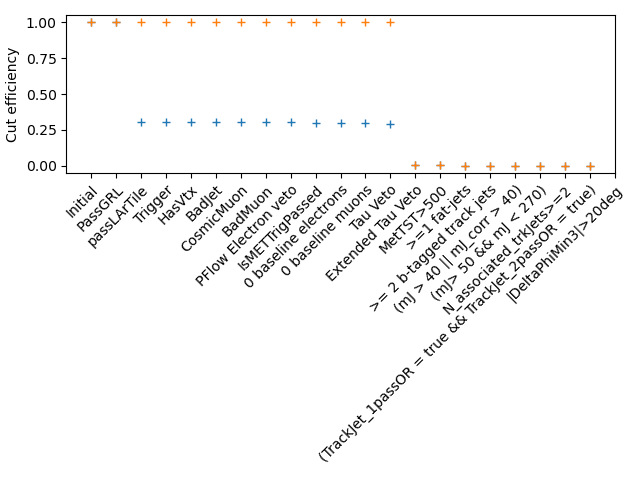
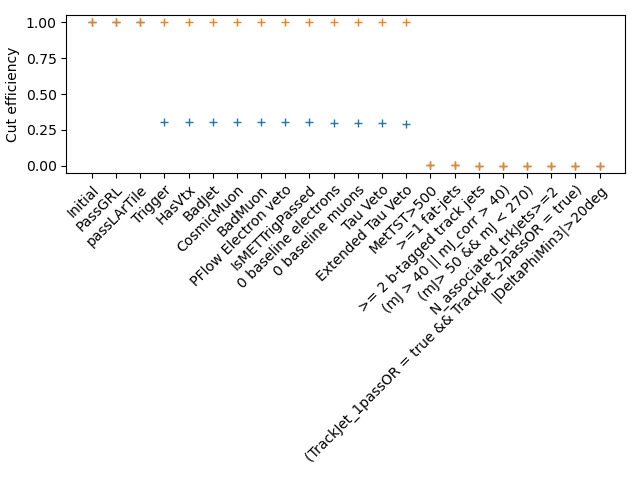
update cutflow comparison script

diff --git a/simple_analysis/cutflow_validation/compare_cutflows.py b/simple_analysis/cutflow_validation/compare_cutflows.py
@@ -13,7 +13,11 @@ def getArgumentParser():
     return parser
 
 def relative_efficiency(cutflow, i):
-    return float(cutflow[i]) / float(cutflow[i-1])
+    try:
+        assert (i > 0)
+        return float(cutflow[i]) / float(cutflow[i-1])
+    except AssertionError:
+        return 1.
 
 def base_efficiency(cutflow, i):
     return float(cutflow[i]) / float(cutflow[0])
@@ -114,7 +118,6 @@ def main():
     efficiency_merged_xp = []
     efficiency_merged_sa = []
     for i, cut in enumerate(v_cutflow_simpleanalysis_merged):
-        if i == 0: continue
         cut_xp = v_cutflow_xampp_merged[i]
         cut_sa = v_cutflow_simpleanalysis_merged[i]
         eff_xp = base_efficiency(v_cutflow_xampp_merged, i)
@@ -134,7 +137,6 @@ def main():
     efficiency_resolved_xp = []
     efficiency_resolved_sa = []
     for i, cut in enumerate(v_cutflow_simpleanalysis_resolved):
-        if i == 0: continue
         cut_xp = v_cutflow_xampp_resolved[i]
         cut_sa = v_cutflow_simpleanalysis_resolved[i]
         eff_xp = base_efficiency(v_cutflow_xampp_resolved, i)
